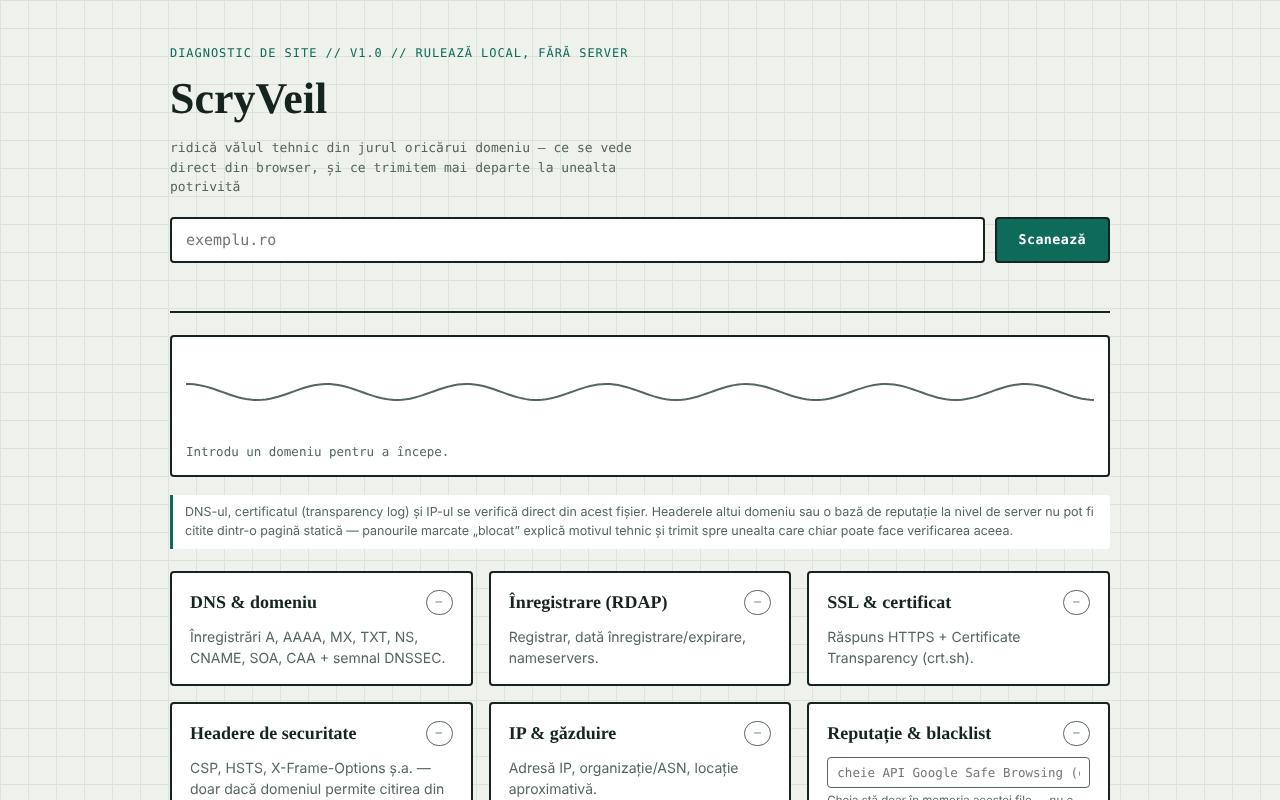
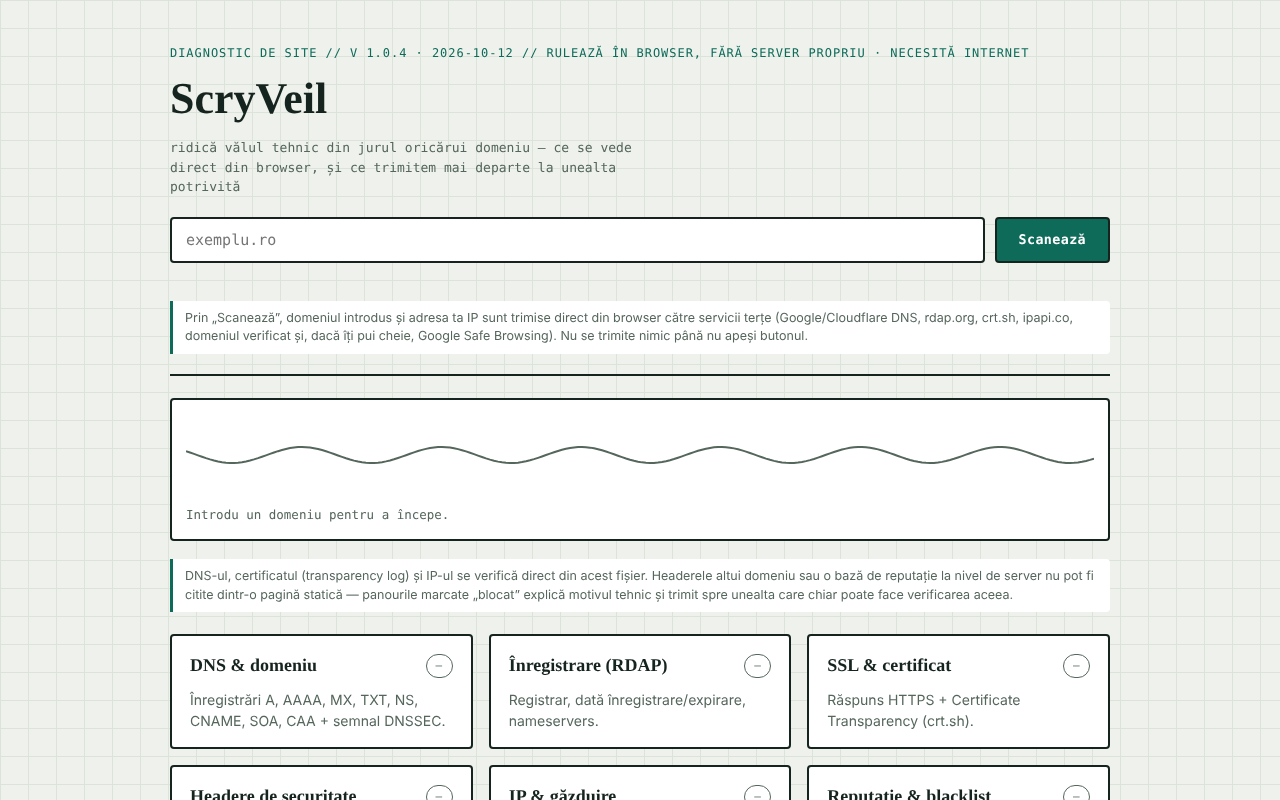
Versiune și dată ultimă actualizare (12 octombrie 2026) în aplicație și README
Claude-Session: https://claude.ai/code/session_01D2sCEb3hy3nutYexhUfQFs

diff --git a/index.html b/index.html
@@ -2,7 +2,9 @@
 <html lang="ro">
 <head>
 <meta charset="UTF-8">
-<meta http-equiv="Content-Security-Policy" content="default-src 'none'; script-src 'sha256-mSu0mJ8ezB/jJvWqZnZy4ypmhs1AAZJWCeNp9bwVP9I='; style-src 'unsafe-inline'; img-src data:; connect-src https:; base-uri 'none'; form-action 'none'">
+<meta name="application-version" content="1.0.4">
+<meta name="last-updated" content="2026-10-12">
+<meta http-equiv="Content-Security-Policy" content="default-src 'none'; script-src 'sha256-XeRkVYEJKAUQq7GueT3monkdXwRfTqVHL3aoXMlm2bk='; style-src 'unsafe-inline'; img-src data:; connect-src https:; base-uri 'none'; form-action 'none'">
 <meta name="viewport" content="width=device-width, initial-scale=1.0">
 <title>ScryVeil — diagnostic de securitate pentru orice site</title>
 <style>
@@ -171,7 +173,7 @@
 
 <div class="wrap">
   <header class="masthead">
-    <div class="eyebrow">diagnostic de site // v1.0.3 // rulează în browser, fără server propriu · necesită internet</div>
+    <div class="eyebrow">diagnostic de site // <span id="app-version">v 1.0.4 · 2026-10-12</span> // rulează în browser, fără server propriu · necesită internet</div>
     <h1 class="brand">ScryVeil</h1>
     <p class="tagline">ridică vălul tehnic din jurul oricărui domeniu — ce se vede direct din browser, și ce trimitem mai departe la unealta potrivită</p>
     <form id="scanForm" class="scan-form">
@@ -683,7 +685,7 @@
     return fetch('https://safebrowsing.googleapis.com/v4/threatMatches:find?key=' + encodeURIComponent(key), {
       method: 'POST', signal: t.signal, headers: { 'content-type': 'application/json' },
       body: JSON.stringify({
-        client: { clientId: 'scryveil', clientVersion: '1.0.0' },
+        client: { clientId: 'scryveil', clientVersion: '1.0.4' },
         threatInfo: {
           threatTypes: ['MALWARE', 'SOCIAL_ENGINEERING', 'UNWANTED_SOFTWARE', 'POTENTIALLY_HARMFUL_APPLICATION'],
           platformTypes: ['ANY_PLATFORM'], threatEntryTypes: ['URL'],
